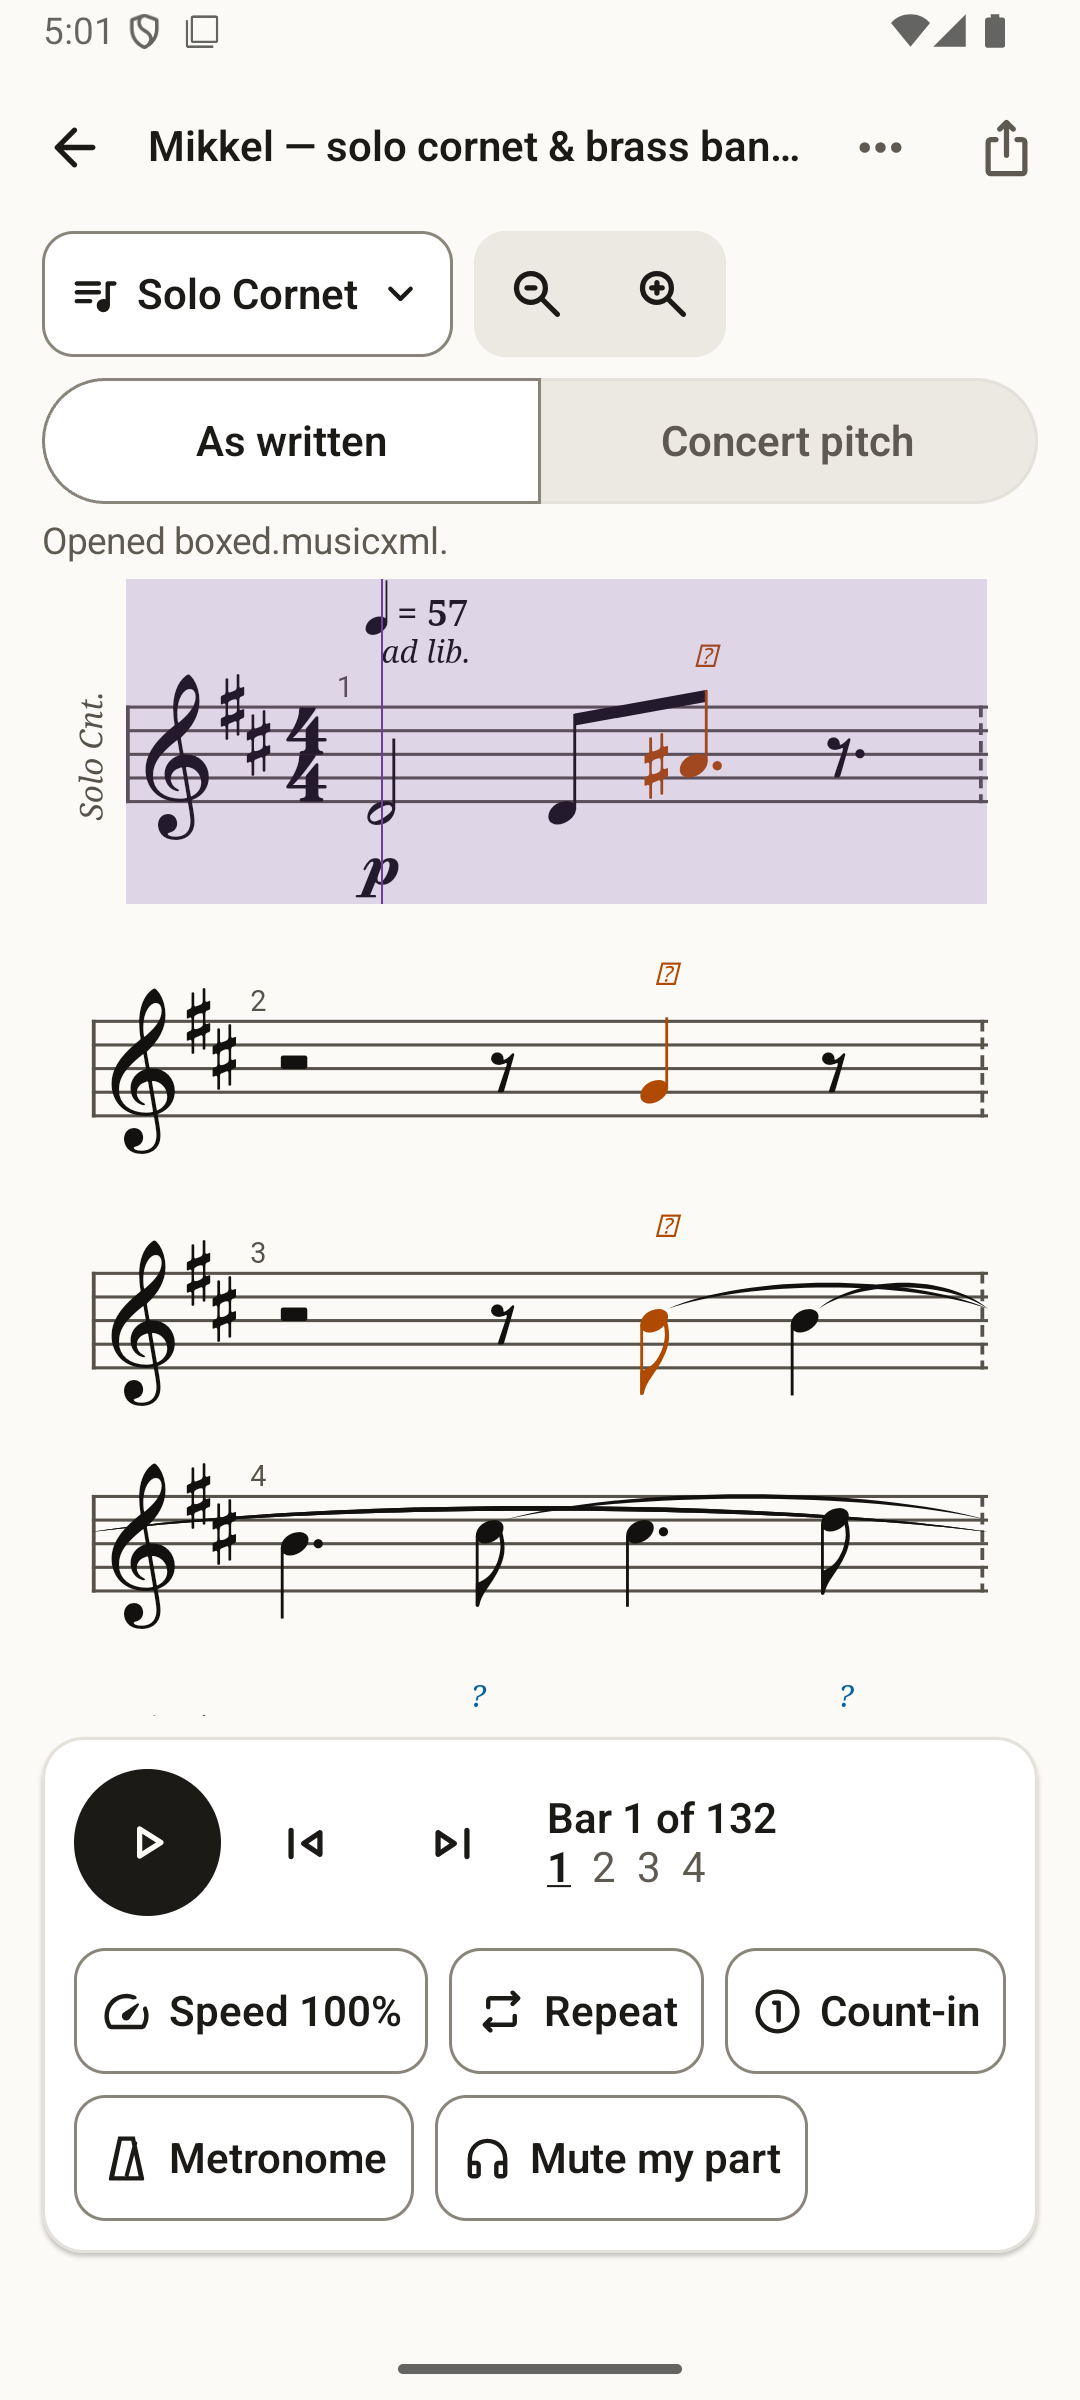
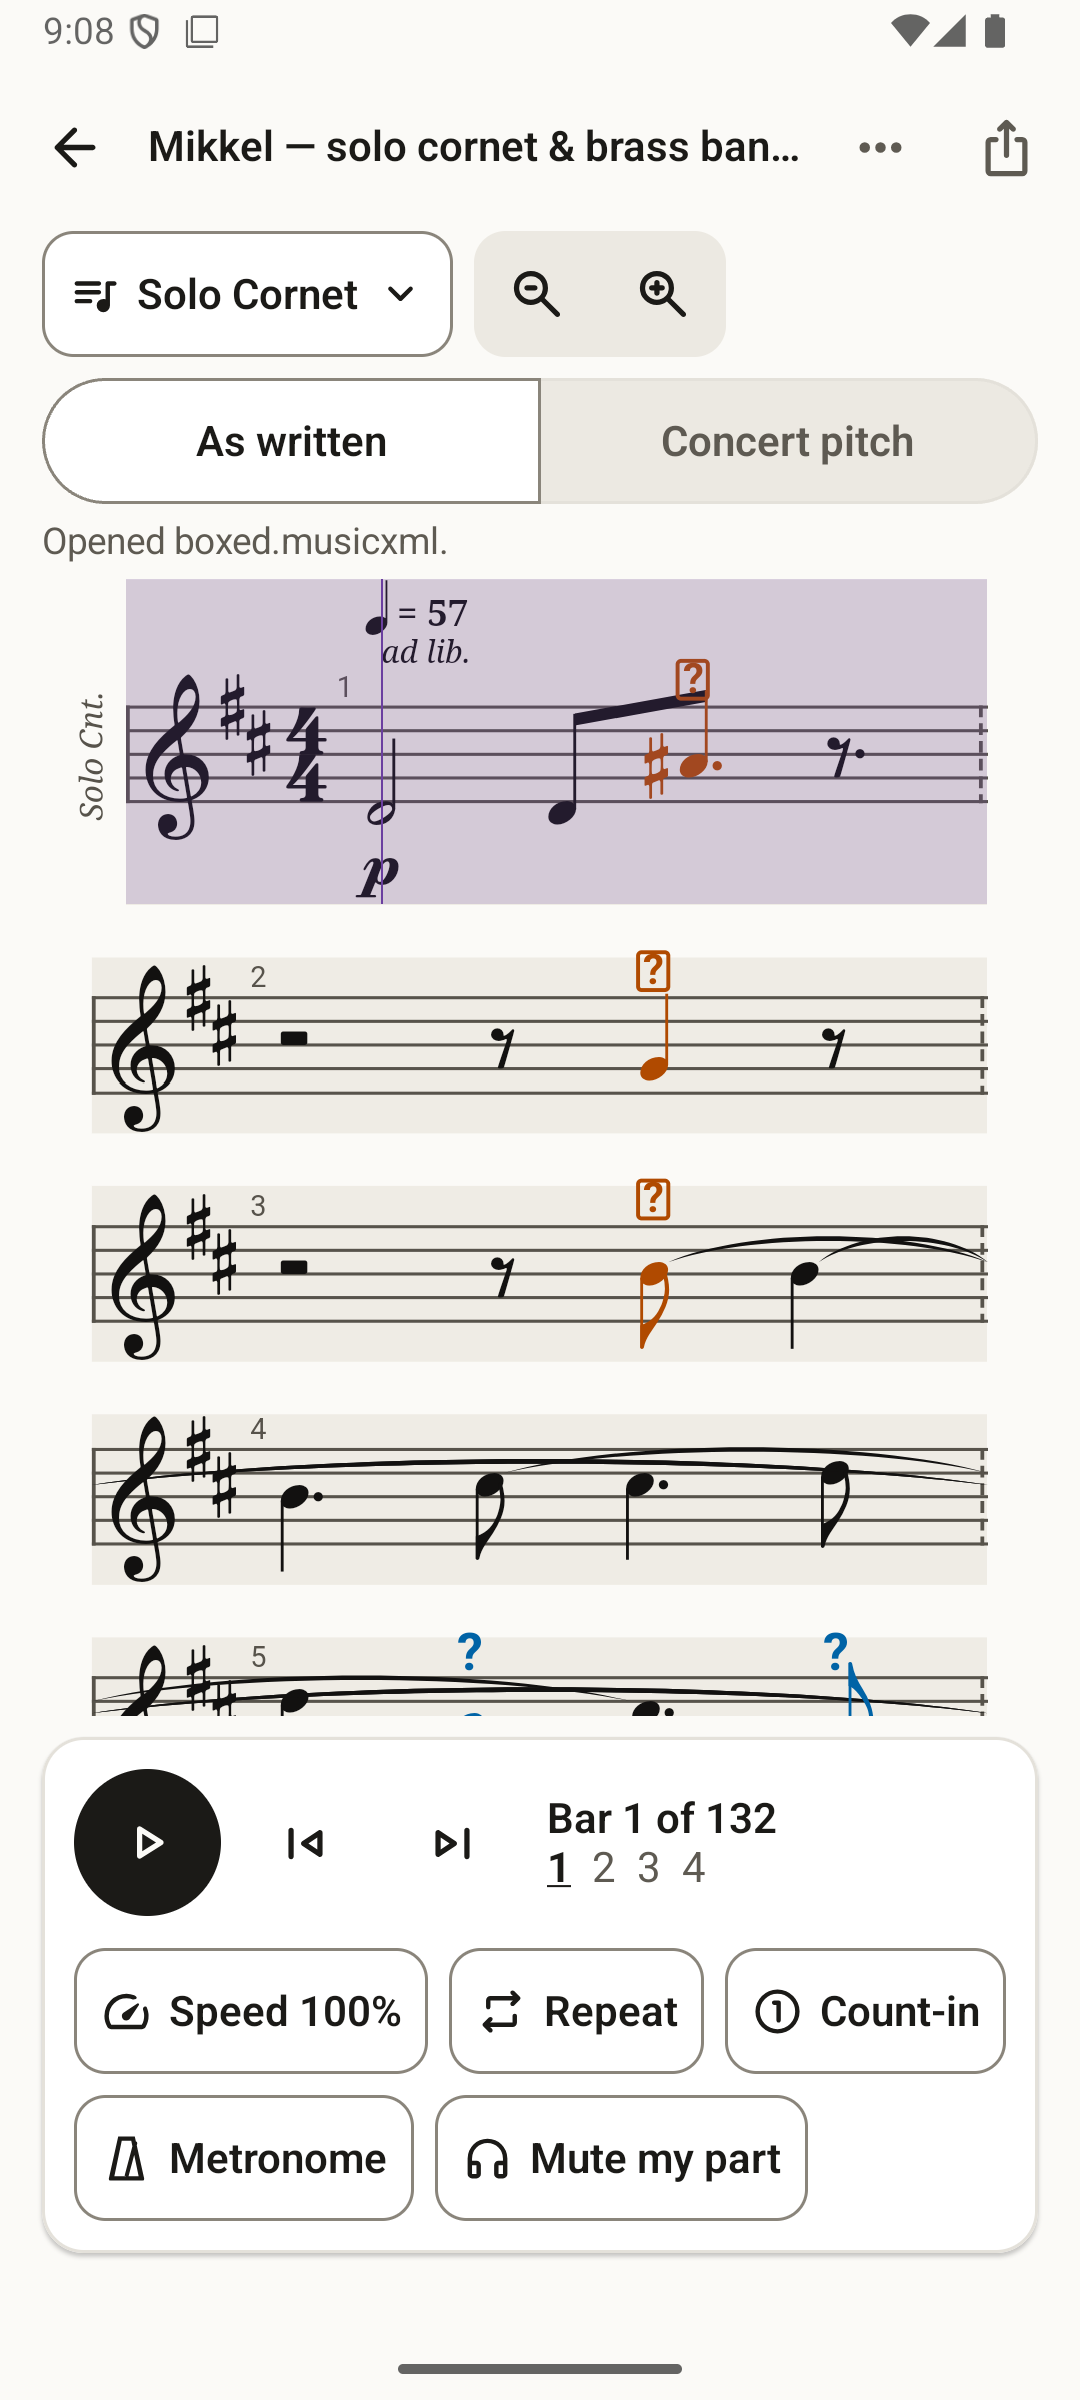
wip(android): notation overlay for the uncertainty marks and the ad-lib tint

Changed region(s): [[0.0917, 0.375, 0.9167, 0.7188], [0.6417, 0.25, 0.6722, 0.2812], [0.0306, 0.0, 0.0611, 0.0312]]

diff --git a/apps/android/app/src/main/kotlin/no/brasscribe/play/score/NotationOverlay.kt b/apps/android/app/src/main/kotlin/no/brasscribe/play/score/NotationOverlay.kt
@@ -1,0 +1,152 @@
+package no.brasscribe.play.score
+
+import alphaTab.AlphaTabView
+import alphaTab.model.Beat
+import android.annotation.SuppressLint
+import android.content.Context
+import android.graphics.Canvas
+import android.graphics.Paint
+import android.graphics.RectF
+import android.graphics.Typeface
+import android.view.View
+import android.widget.RelativeLayout
+
+/**
+ * Draws what alphaTab cannot, from its layout (boundsLookup), inside alphaTab's scrolling render
+ * wrapper so it scrolls with the notation:
+ * - the uncertainty marks at the spec size (visual-design-tokens.md §2, system.md §6): a "?" 1.6 staff
+ *   spaces tall above an uncertain note, and a boxed "?" of the same height, stroke at least 1.5 dp,
+ *   above a very uncertain one, both in the note's colour;
+ * - the ad-lib tint behind free-time bars (the loop tint replaces it inside a loop; high contrast has
+ *   no tints);
+ * - an ink ring around one note (the review's note card).
+ * alphaTab still lays out a blank text band where the marks go, so nothing collides with them.
+ */
+@SuppressLint("ViewConstructor")
+class NotationOverlay(context: Context, private val tab: AlphaTabView, private val under: Boolean) : View(context) {
+    /** Marked beats: true when very uncertain. */
+    var marks: Map<Beat, Boolean> = emptyMap()
+    /** Master bar indexes (0-based) in free time. */
+    var adLibBars: Set<Int> = emptySet()
+    /** Loop range (1-based bars); the loop tint replaces the ad-lib tint there. */
+    var loop: IntRange? = null
+    var ring: Beat? = null
+    var palette: ScorePalette? = null
+
+    private val density = context.resources.displayMetrics.density
+    private val text = Paint(Paint.ANTI_ALIAS_FLAG).apply {
+        typeface = Typeface.create(Typeface.DEFAULT, Typeface.BOLD)
+        textAlign = Paint.Align.CENTER
+    }
+    private val stroke = Paint(Paint.ANTI_ALIAS_FLAG).apply { style = Paint.Style.STROKE }
+    private val fill = Paint()
+    private val rect = RectF()
+
+    init {
+        importantForAccessibility = IMPORTANT_FOR_ACCESSIBILITY_NO
+        isClickable = false
+        setWillNotDraw(false)
+    }
+
+    /** One staff space in view pixels at the current zoom. */
+    val staffSpacePx: Float
+        get() {
+            val ss = tab.settings.display.resources.engravingSettings.oneStaffSpace.takeIf { it > 0 } ?: 8.5
+            return (ss * tab.settings.display.scale * density).toFloat()
+        }
+
+    /** alphaTab's high-DPI factor is the display density (AndroidEnvironment). */
+    private val f get() = density
+
+    override fun onDraw(canvas: Canvas) {
+        val p = palette
+        val lookup = tab.api.boundsLookup
+        if (p == null || lookup == null) return
+        val ss = staffSpacePx
+        // Ad-lib tint over the whole system height of each free-time bar.
+        if (under) {
+            if (p.highContrast || adLibBars.isEmpty()) return
+            fill.color = p.adlibTint
+            for (i in adLibBars) {
+                if (loop?.contains(i + 1) == true) continue
+                val mb = lookup.findMasterBarByIndex(i.toDouble()) ?: continue
+                val b = mb.visualBounds
+                canvas.drawRect((b.x * f).toFloat(), (b.y * f).toFloat(), ((b.x + b.w) * f).toFloat(), ((b.y + b.h) * f).toFloat(), fill)
+            }
+            return
+        }
+        val markH = 1.6f * ss
+        text.textSize = markH / 0.72f
+        stroke.strokeWidth = maxOf(1.5f * density, 0.14f * ss)
+        for ((beat, very) in marks) {
+            val all = lookup.findBeats(beat) ?: continue
+            for (i in 0 until all.length.toInt()) {
+                val bb = all[i]
+                val staffTop = (bb.barBounds.visualBounds.y * f).toFloat()
+                val notes = bb.notes
+                // Above the staff, the note heads and the stem.
+                var top = minOf(staffTop, (bb.visualBounds.y * f).toFloat())
+                var cx = ((bb.onNotesX.takeIf { it > 0 } ?: (bb.visualBounds.x + bb.visualBounds.w / 2)) * f).toFloat()
+                if (notes != null && notes.length > 0) {
+                    for (j in 0 until notes.length.toInt()) {
+                        val h = notes[j].noteHeadBounds
+                        top = minOf(top, (h.y * f).toFloat())
+                        if (j == 0) cx = ((h.x + h.w / 2) * f).toFloat()
+                    }
+                }
+                val bottom = top - 0.4f * ss
+                val colour = if (very) p.veryUncertain else p.uncertain
+                text.color = colour
+                if (very) {
+                    val w = markH * 0.8f
+                    rect.set(cx - w / 2, bottom - markH, cx + w / 2, bottom)
+                    stroke.color = colour
+                    canvas.drawRoundRect(rect, 0.15f * ss, 0.15f * ss, stroke)
+                    text.textSize = markH * 0.8f / 0.72f
+                    canvas.drawText("?", cx, bottom - markH * 0.16f, text)
+                    text.textSize = markH / 0.72f
+                } else {
+                    canvas.drawText("?", cx, bottom, text)
+                }
+            }
+        }
+        ring?.let { beat ->
+            val bb = lookup.findBeats(beat)?.let { if (it.length > 0) it[0] else null } ?: return@let
+            val notes = bb.notes
+            val b = if (notes != null && notes.length > 0) notes[0].noteHeadBounds else bb.visualBounds
+            stroke.color = p.ink
+            stroke.strokeWidth = 2f * density
+            val pad = 0.35f * ss
+            rect.set((b.x * f).toFloat() - pad, (b.y * f).toFloat() - pad, ((b.x + b.w) * f).toFloat() + pad, ((b.y + b.h) * f).toFloat() + pad)
+            canvas.drawRoundRect(rect, 0.4f * ss, 0.4f * ss, stroke)
+        }
+    }
+
+    private var surface: View? = null
+
+    /** Matches the rendered surface's size (the wrapper wraps its content), then redraws. */
+    fun refresh() {
+        val sv = surface
+        if (sv != null && (layoutParams.width != sv.width || layoutParams.height != sv.height) && sv.width > 0) {
+            layoutParams = layoutParams.apply { width = sv.width; height = sv.height }
+        }
+        invalidate()
+    }
+
+    companion object {
+        /**
+         * Puts an overlay into [tab]'s render wrapper: [under] the rendered notation for tints (the
+         * surface is transparent over the paper), or above it for the marks and the ring.
+         */
+        fun attach(tab: AlphaTabView, under: Boolean): NotationOverlay {
+            val overlay = NotationOverlay(tab.context, tab, under)
+            val wrapper = tab.findViewById<RelativeLayout>(net.alphatab.R.id.renderWrapper)
+            val surface = tab.findViewById<View>(net.alphatab.R.id.renderSurface)
+            val index = (0 until wrapper.childCount).firstOrNull { wrapper.getChildAt(it) === surface }?.plus(if (under) 0 else 1) ?: 0
+            wrapper.addView(overlay, index, RelativeLayout.LayoutParams(0, 0))
+            overlay.surface = surface
+            surface.addOnLayoutChangeListener { _, _, _, _, _, _, _, _, _ -> overlay.post { overlay.refresh() } }
+            return overlay
+        }
+    }
+}

diff --git a/apps/android/app/src/main/kotlin/no/brasscribe/play/score/ScoreController.kt b/apps/android/app/src/main/kotlin/no/brasscribe/play/score/ScoreController.kt
@@ -95,6 +95,8 @@ class ScoreController(
             player.enableUserInteraction = true
             player.enableAnimatedBeatCursor = !reducedMotion
             player.scrollMode = if (reducedMotion) ScrollMode.OffScreen else ScrollMode.Continuous
+            // The overlay draws the uncertainty marks from the note heads.
+            core.includeNoteBounds = true
         }
         view.api.updateSettings()
         view.importantForAccessibility = android.view.View.IMPORTANT_FOR_ACCESSIBILITY_NO_HIDE_DESCENDANTS
@@ -110,7 +112,7 @@ class ScoreController(
         }
         // Channel volumes reset when the MIDI is regenerated (every render), so the balance follows it.
         // (api.midiLoaded cannot be used: in alphaTab 1.8.4 on Android its getter recurses forever.)
-        view.api.postRenderFinished.on { applyVolumes() }
+        view.api.postRenderFinished.on { applyVolumes(); overlays().forEach { it.refresh() } }
 
         view.api.playedBeatChanged.on { beat ->
             val mb = beat.voice.bar.masterBar
@@ -138,6 +140,7 @@ class ScoreController(
         try {
             val s = ScoreLoader.loadScoreFromBytes(Uint8Array(markVeryUncertain(bytes).asUByteArray()), view.settings)
             score = s
+            collectMarks(s)
             colourUncertainty(s)
             s.tracks.forEach { t -> writtenTransposition[t.index.toInt()] = t.staves[0].displayTranspositionPitch }
             // alphaTab keeps MusicXML part names with no-break spaces; plain spaces read and match better.
@@ -300,6 +303,8 @@ class ScoreController(
             view.api.tickPosition = first.start
         }
         _state.value = _state.value.copy(loop = range)
+        tints.loop = range
+        tints.invalidate()
     }
 
     fun goToBar(bar: Int) {
@@ -381,11 +386,54 @@ class ScoreController(
             barNumberColor = p.staff.toAlphaTabColor()
         }
         view.api.updateSettings()
+        overlays().forEach { it.palette = p }
         score?.let { colourUncertainty(it) }
-        if (_state.value.loaded) render()
+        if (_state.value.loaded) render() else overlay.invalidate()
     }
 
     private var palette: ScorePalette? = null
+
+    /** The overlay with the uncertainty marks, the ad-lib tint and the review ring. */
+    private val tints: NotationOverlay = NotationOverlay.attach(view, under = true)
+    val overlay: NotationOverlay = NotationOverlay.attach(view, under = false)
+    private fun overlays() = listOf(tints, overlay)
+    private var marks: Map<alphaTab.model.Beat, Boolean> = emptyMap()
+
+    /**
+     * Finds the marked beats (their "?" text) and the free-time bars ("ad lib." up to "a tempo"),
+     * then blanks the small text marks so alphaTab keeps their band and the overlay draws them.
+     */
+    private fun collectMarks(s: Score) {
+        val found = HashMap<alphaTab.model.Beat, Boolean>()
+        val adLib = HashSet<Int>()
+        for (t in 0 until s.tracks.length.toInt()) for (st in s.tracks[t].staves) {
+            var free = false
+            for (bar in st.bars) {
+                for (voice in bar.voices) for (beat in voice.beats) {
+                    when (beat.text?.trim()?.lowercase()) {
+                        "?" -> { found[beat] = false; beat.text = MARK_SPACE }
+                        BOXED_QUESTION -> { found[beat] = true; beat.text = MARK_SPACE }
+                        "ad lib.", "ad lib", "ad. lib." -> free = true
+                        "a tempo" -> free = false
+                    }
+                }
+                if (free) adLib += bar.index.toInt()
+            }
+        }
+        marks = found
+        overlay.marks = found
+        tints.adLibBars = adLib
+    }
+
+    /** Rings one note of the rendered score (the review's note card). */
+    fun ringNote(bar: Int, noteIndexInBar: Int) {
+        val s = score ?: return
+        val staff = s.tracks[_state.value.shown.minOrNull() ?: 0].staves[0]
+        val b = if (bar in 1..staff.bars.length.toInt()) staff.bars[bar - 1] else null
+        val beats = b?.voices?.let { v -> if (v.length > 0) (0 until v[0].beats.length.toInt()).map { v[0].beats[it] } else null }.orEmpty().filter { !it.isRest }
+        overlay.ring = beats.getOrNull(noteIndexInBar)
+        overlay.invalidate()
+    }
 
     /**
      * Uncertain notes carry a "?" above them (MusicXML <words>) and, below 0.4 confidence, a boxed
@@ -405,7 +453,7 @@ class ScoreController(
         val very = p.veryUncertain.toAlphaTabColor()
         for (t in 0 until s.tracks.length.toInt()) for (st in s.tracks[t].staves) for (bar in st.bars) for (voice in bar.voices) {
             for (beat in voice.beats) {
-                val colour = when (beat.text?.trim()) { "?" -> uncertain; BOXED_QUESTION -> very; else -> null } ?: continue
+                val colour = when (marks[beat]) { false -> uncertain; true -> very; null -> null } ?: continue
                 beat.style = BeatStyle().apply {
                     for (e in listOf(BeatSubElement.Effects, BeatSubElement.StandardNotationEffects, BeatSubElement.StandardNotationStem,
                         BeatSubElement.StandardNotationFlags)) colors.set(e, colour)
@@ -473,10 +521,12 @@ class ScoreController(
 /** Theme colours of the notation (design tokens, ARGB). */
 data class ScorePalette(
     val paper: Int, val ink: Int, val staff: Int, val cursor: Int, val uncertain: Int, val veryUncertain: Int,
-    val loopTint: Int, val highContrast: Boolean,
+    val loopTint: Int, val highContrast: Boolean, val adlibTint: Int = loopTint,
 )
 
 private const val BOXED_QUESTION = "\u2370"
+/** Blank text in place of a mark: alphaTab still reserves the text band above the note. */
+private const val MARK_SPACE = "\u2003\u2003"
 private val VERY_UNCERTAIN_WORDS = Regex("""<words\b[^>]*enclosure="rectangle"[^>]*>\?</words>""")
 
 /** A colour with [alpha] that, drawn over [paper], gives [tint]. */

diff --git a/apps/android/core-bridge/src/test/kotlin/no/brasscribe/play/core/RearrangeTest.kt b/apps/android/core-bridge/src/test/kotlin/no/brasscribe/play/core/RearrangeTest.kt
@@ -1,0 +1,41 @@
+package no.brasscribe.play.core
+
+import no.brasscribe.play.model.CompositionJson
+import org.junit.Assert.assertEquals
+import org.junit.Assume.assumeTrue
+import org.junit.Test
+import java.io.File
+
+/**
+ * Re-arranging an edited Composition through the core: the golden Composition must give the golden
+ * score back, part for part, so a changed note changes only that note.
+ */
+class RearrangeTest {
+    private val golden = File(System.getProperty("brasscribe.golden") ?: "missing")
+
+    private fun parts(xml: String) = Regex("""<score-part id="([^"]+)">\s*<part-name>([^<]*)""").findAll(xml).map { it.groupValues[2] }.toList()
+    private fun pitches(xml: String, part: Int): List<String> {
+        val id = Regex("""<score-part id="([^"]+)">""").findAll(xml).map { it.groupValues[1] }.toList()[part]
+        val body = Regex("""<part id="$id">(.*?)</part>""", RegexOption.DOT_MATCHES_ALL).find(xml)!!.groupValues[1]
+        return Regex("""<step>(\w)</step>(?:\s*<alter>(-?\d)</alter>)?\s*<octave>(\d)</octave>""").findAll(body)
+            .map { it.groupValues.drop(1).joinToString("") }.toList()
+    }
+
+    @Test
+    fun goldenCompositionGivesTheGoldenScore() {
+        val core = RustCoreBridge.load()
+        assumeTrue("host core missing", core != null)
+        val comp = File(golden, "composition.json")
+        assumeTrue("golden missing", comp.isFile)
+        val c = core!!.decodeComposition(comp.readText())
+        val want = File(golden, "brass-band.musicxml").readText()
+        for (arranger in listOf("auto", "layers")) {
+            val got = core.arrangeMusicXml(c, arranger)!!
+            val same = parts(want).indices.count { i -> runCatching { pitches(got, i) == pitches(want, i) }.getOrDefault(false) }
+            println("arranger $arranger: parts ${parts(got).size} vs ${parts(want).size}; parts with identical pitches $same; solo ${pitches(got, 1).size} vs ${pitches(want, 1).size}")
+        }
+        val got = core.arrangeMusicXml(c, "auto")!!
+        assertEquals(parts(want), parts(got))
+        assertEquals(pitches(want, 1), pitches(got, 1))
+    }
+}

diff --git a/apps/android/app/src/main/kotlin/no/brasscribe/play/ui/ScoreScreen.kt b/apps/android/app/src/main/kotlin/no/brasscribe/play/ui/ScoreScreen.kt
@@ -122,7 +122,7 @@ fun ScoreScreen(vm: PlayViewModel) {
 
     LaunchedEffect(controller, c) {
         controller.setNotationColors(ScorePalette(c.bg.toArgb(), c.ink.toArgb(), c.staff.toArgb(), c.cursor.toArgb(),
-            c.uncertain.toArgb(), c.veryUncertain.toArgb(), c.loopTint.toArgb(), c.isHighContrast))
+            c.uncertain.toArgb(), c.veryUncertain.toArgb(), c.loopTint.toArgb(), c.isHighContrast, c.adlibTint.toArgb()))
     }
     LaunchedEffect(controller) {
         // One part first (the full score is one tap away in Parts); a key shift re-renders once.
